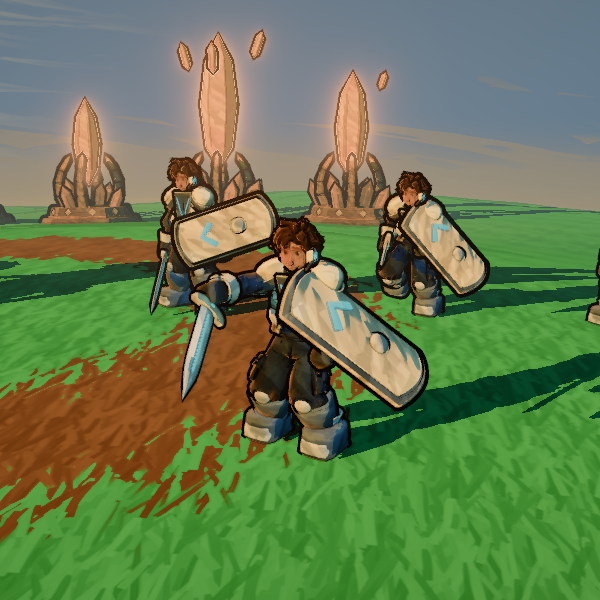
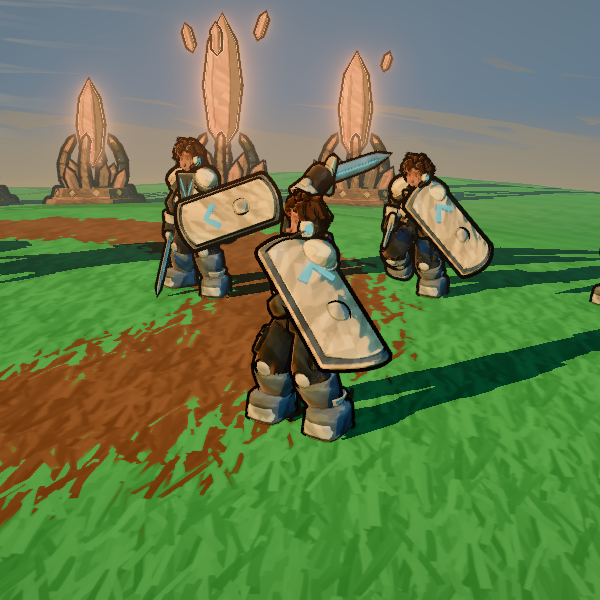
Recapture the finisher's evidence frame inside its coil, where it differs from attack_1
combat-combo-1.png and combat-combo-3.png showed the same cleave pose. The finisher's placeholder is
the source cleave from its coil, and attack_1's is the whole cleave, so the two strike in the same pose
until the real attack_3 ships; the finisher's frame was taken near its strike (0.33 s in), where they
match.

combat-combo-3.png is retaken on the RTX 4080 at the finisher's 0.216 s, frozen on the first frame at or
past 0.20 s of a chain pressed from inside the page, in the same 600 x 600 crop of the default play
camera: the sword is held in the coil over his right shoulder, with the labels and chips hidden as in
the other combo frames. The blueprint's placeholder row and the combat feel research's Decided row now
say that hits 1 and 3 share a source until the real attack_3 ships.

diff --git a/docs/blueprint.md b/docs/blueprint.md
@@ -1204,7 +1204,7 @@ world's centre on the pole.
 | `crossfade`, `fadeIn` and `fadeOut` (labs/world/combatFeel.ts; ownWeight and comboWeights, labs/world/combo.ts) | 0.10 s between hits; 0.07 s from the idle and run into a chain's first hit; 0.2 s from its last hit back to them, ending one frame (the frame's real interval) before the hit's end; a light hit at full weight until its cancel point; each hit's fades copied from the settings when it begins (`HitFades`) | The owner's 0.08 to 0.12 s crossfade: the outgoing hit falls from the weight it had as the next rises, so the two sum to 1 from a full-weight hit and no idle shows between hits (the browser test reads the upper body's hit weight at 1.000000 from attack_1's full weight to the finisher's fade out). The crossfade stops at 0.25 s in the panel, under the light hits' 0.30 s cancel point, so a hit has finished fading in before the next can begin and only two hits ever show. The first hit takes over in a third of attack_1's 0.20 s wind-up, so the wind-up reads from its first frames, and the last hands back over 0.2 s, inside the 0.25 s a light hit has past its cancel point, settling into the idle or the run without a pop. The fade out ends one frame early, the frame's step short of the hit's end, since the hit ends on the frame that reaches its end: ending there left the last frame up to a step's share of the fade, a quarter at SwiftShader's 0.05 s, which vanished in one frame. A light hit keeps full weight until its cancel point however long the fade out (the fade shortens to fit), so a kept hit always takes over from a full one. A frozen frame keeps the weights it had. The fade's frame is the frame's real interval, not the combo's step, so phase B's hit-stop, which holds the combo's step at 0 while frames draw, does not move the fade's end each time a stop begins and ends. A hit keeps the fades it began with, so a slider moved mid-hit applies from the next hit: read live, dragging the crossfade from 0.10 to 0.25 s halfway through a crossfade threw the incoming hit from 0.5 to 0.2 of its weight in one frame |
 | `moveScale`, `windupTurn` and the finisher's plant (labs/world/combatFeel.ts; swingMotion, labs/world/combo.ts; stepMotion's `cap`, labs/world/playMotion.ts) | light hits: 0.4 of the pace from the hit's start to its cancel point, eased down at the stop rate through the wind-up and held at or under 0.4 of the walk's or the sprint's pace through the active frames, easing down at the stop rate from there when the key is let go; 0.5 of the turn rate in the wind-up, the facing locked from the active frames to the cancel point and free after it. The finisher: no pace and no turn for its whole 0.85 s, from the frame it begins | Attacking while moving: the owner asked that he slow rather than stop. At 0.4 the walk's 3.2 m/s falls to 1.28 m/s and the sprint's 5.6 m/s to 2.24 m/s, both over the run's full weight at 1.2 m/s, so his legs keep the run cycle under the swing at 0.33 and 0.58 of its rate, the rate following his speed so his feet keep pace with the ground (`runTimeScale`). The ease down from a walk takes 0.07 s of attack_1's 0.15 s wind-up, so the active frames land at the reduced pace, and the cap holds them there (the browser test reads 1.280 m/s in each). The cap is the hit's ceiling, its share of the walk's or the sprint's pace, not the pace the key asks: capped to the key, letting go of W in the active frames, or asking for a way more than a quarter turn from the locked facing, dropped his drive from 1.28 m/s to 0 in one frame and the run's weight from 1 to 0 with it, so the legs and hips jumped from the run to the idle; under the ceiling the drive eases down at the stop rate, 1.28 m/s to 0 in 0.048 s (a unit test reads 1.28 less a frame of the stop rate on the frame after the key is let go). The pace stays reduced to the cancel point: freed at the end of the active frames, he surged from 1.28 m/s to 1.6 m/s in the 20 ms before it and slowed again in the next hit's wind-up, a bump in every chain. Half the turn rate, 270 degrees a second, lets him aim the wind-up; locking the facing through the active frames sends the cut where it was aimed (Pillar 4), and freeing it at the cancel point lets him line up the next hit. The finisher plants both boots (the clip holds them by IK on every frame), so any pace under it would slide them: the cap zeroes his drive on its first frame. Easing down at the stop rate instead took 0.12 s from a walk and 0.21 s from a sprint and slid him about 0.19 m and 0.59 m (2026-10-05, the single cleave's PLAY_ATTACK_MOVE_SCALE, which this replaces). The run keeps the weight it had while the finisher fades in over his stop (`holdsRunWeight`): following his zeroed speed there dropped it from 1 to 0 at once and showed 76 percent idle at 60 fps (29 percent at 20 fps) under its first frame |
 | `UPPER_BODY_ROOT` (labs/world/comboClips.ts) and the body's weights (bodyWeights, labs/world/combo.ts) | `Spine`: mixamorigSpine, Spine1, Spine2, both shoulders, arms, forearms and hands, the neck, the head, the jaw and HeadTop_End play the hits; the hips and both legs (UpLeg, Leg, Foot, ToeBase) keep the locomotion blend. On the lower body the run keeps its weight times what the planted hits leave, a light hit plays at its weight times the idle's share (1 less the run's weight), and the idle takes the rest of that share; the finisher plays on the whole body | three's AnimationMixer weighs a whole action, every bone its clip touches, so each clip is split at the mask into an upper and a lower clip whose weights sum to 1 on their own, where one action per clip would let the upper body fall back toward the bind pose under a partial weight. The sword and the shield have no bones of their own; they are skinned to the hands, which the mask holds. Running, the legs keep the run cycle under the swinging arms (the browser test reads the legs' run weight at 1.000 through a moving hit, and combat-moving-attack.png shows the stride under the cut); the hips' coil is lost there, and the frames still read the upper body as a swing. Standing, the whole body swings, the coil and the planted stance included (combat-combo-1.png). The light hit used to shrink the run's share on the legs as well, so at full hit weight the run kept the square of its weight: at half the run's weight (0.6 m/s) the legs took 0.25 run, 0.5 hit and 0.25 idle, an idle stance mixed into a jog; they now take 0.5 run and 0.5 hit, and a unit test holds the shares at that point, their sum at 1 and their continuity in the run's weight. A unit test loads the shipped GLB and holds the mask to these bones |
-| The placeholder hits (hitClips and warpClip, labs/world/comboClips.ts; placeholderAnchors, labs/world/combo.ts), `BACKHAND_FROM_AFTER_STRIKE`, `BACKHAND_STRIKE_BEFORE_STRIKE`, `BACKHAND_TO_BEFORE_STRIKE`, `FINISHER_FROM_BEFORE_STRIKE`, `PLACEHOLDER_SAMPLES_PER_SECOND` and `CLIP_LENGTH_TOLERANCE` | each warped at runtime from the attack clip, piecewise-linear through the hit's start, strike and end: attack_1 from 0, 0.34 and 0.833 s of the source; attack_2 backward from 0.60 s through 0.30 s to 0.12 s (0.26 s after the source's strike, 0.04 s and 0.22 s before it); attack_3 from 0.13 s (0.21 s before the strike), 0.34 s and 0.833 s; sampled 60 times a second and at each anchor, each warped track keeping its source's interpolation. A GLB clip named attack_1, attack_2 or attack_3 replaces its placeholder, and one more than 1/30 s off its contract's length is named in the console and its miss read (`clipLengthOff`) | The real clips are being made, and until they arrive the source cleave stands in, warped so its strike lands exactly at each hit's contract strike, where a uniform scale would put it at 0.22 s in 0.55 s and at 0.35 s in 0.85 s. The cleave snaps its sword hand up in one frame (0.067 to 0.1 s), holds the coil to 0.267 s, cuts down by 0.333 s at up to 27 m/s and holds the follow-through in front to 0.63 s. attack_2 runs that cut backward as a rising backhand, struck at the cut's fastest moment: struck at the source's own 0.34 s, the end of the cut, it struck before its blade moved. Its first pose stands within 7 cm of attack_1's sword hand at attack_1's cancel point, both in the follow-through, so the crossfade barely moves the sword, and the cut down and back up read as two blows (combat-combo-2.png); mirroring would swing the shield, which is in his left hand. The finisher starts in the coil where the backhand ends: started from the source's first frame, it dropped the sword to the guard over the crossfade only to snap it back up. 60 samples a second, twice the source's rate, keep every source key in the warp's faster stretches. The swap to the real clips is an asset change alone, and the reading names each hit's source (`sources`, `source`); a unit test holds the strike pose at each contract strike within 0.1 mm. The combo's clock runs each hit to its contract, so a real clip of another length would be cut short or held on its last pose; 1/30 s is assets:check's tolerance for every timed clip (`FRAME`), so a clip that passes there passes here, and a real attack_N used to replace its placeholder with no check at all. A warped track keeps its source's interpolation, so a stepped track still steps (every warped track was built linear); a glTF cubic spline track, three values per key, is read at its value's size, a third of getValueSize(), where the warp read two values past each sample into NaN, and it and a Bezier track play their dense samples linearly, their tangents belonging to keys the resample does not keep |
+| The placeholder hits (hitClips and warpClip, labs/world/comboClips.ts; placeholderAnchors, labs/world/combo.ts), `BACKHAND_FROM_AFTER_STRIKE`, `BACKHAND_STRIKE_BEFORE_STRIKE`, `BACKHAND_TO_BEFORE_STRIKE`, `FINISHER_FROM_BEFORE_STRIKE`, `PLACEHOLDER_SAMPLES_PER_SECOND` and `CLIP_LENGTH_TOLERANCE` | each warped at runtime from the attack clip, piecewise-linear through the hit's start, strike and end: attack_1 from 0, 0.34 and 0.833 s of the source; attack_2 backward from 0.60 s through 0.30 s to 0.12 s (0.26 s after the source's strike, 0.04 s and 0.22 s before it); attack_3 from 0.13 s (0.21 s before the strike), 0.34 s and 0.833 s; sampled 60 times a second and at each anchor, each warped track keeping its source's interpolation. A GLB clip named attack_1, attack_2 or attack_3 replaces its placeholder, and one more than 1/30 s off its contract's length is named in the console and its miss read (`clipLengthOff`) | The real clips are being made, and until they arrive the source cleave stands in, warped so its strike lands exactly at each hit's contract strike, where a uniform scale would put it at 0.22 s in 0.55 s and at 0.35 s in 0.85 s. The cleave snaps its sword hand up in one frame (0.067 to 0.1 s), holds the coil to 0.267 s, cuts down by 0.333 s at up to 27 m/s and holds the follow-through in front to 0.63 s. attack_2 runs that cut backward as a rising backhand, struck at the cut's fastest moment: struck at the source's own 0.34 s, the end of the cut, it struck before its blade moved. Its first pose stands within 7 cm of attack_1's sword hand at attack_1's cancel point, both in the follow-through, so the crossfade barely moves the sword, and the cut down and back up read as two blows (combat-combo-2.png); mirroring would swing the shield, which is in his left hand. The finisher starts in the coil where the backhand ends: started from the source's first frame, it dropped the sword to the guard over the crossfade only to snap it back up. attack_1 and the finisher share the source cleave until the real attack_3 ships, so the two strike in the same pose: their frames near the strike (combat-combo-1.png, and combat-combo-3.png as first taken at 0.33 s) showed the same cleave, and combat-combo-3.png now shows the finisher 0.22 s in, held in the coil with the sword over his right shoulder, where the two differ. 60 samples a second, twice the source's rate, keep every source key in the warp's faster stretches. The swap to the real clips is an asset change alone, and the reading names each hit's source (`sources`, `source`); a unit test holds the strike pose at each contract strike within 0.1 mm. The combo's clock runs each hit to its contract, so a real clip of another length would be cut short or held on its last pose; 1/30 s is assets:check's tolerance for every timed clip (`FRAME`), so a clip that passes there passes here, and a real attack_N used to replace its placeholder with no check at all. A warped track keeps its source's interpolation, so a stepped track still steps (every warped track was built linear); a glTF cubic spline track, three values per key, is read at its value's size, a third of getValueSize(), where the warp read two values past each sample into NaN, and it and a Bezier track play their dense samples linearly, their tangents belonging to keys the resample does not keep |
 | The combat feel folder (labs/world/panel.ts; `COMBAT_FEEL_RANGES`, labs/world/combatFeel.ts) and `COPIED_SHOWN_MS` | a slider per setting: crossfade 0.02 to 0.25 s, first hit fade in 0.02 to 0.15 s, last hit fade out 0.05 to 0.4 s, buffer 0 to 0.3 s, reset 0 to 1 s, pace kept and turn kept 0 to 1; a read-only readout of the settings as compact JSON; "Copy combat feel settings", whose name says it copied for 1.5 s; "Reset combat feel to the defaults"; `?feel=` applies that JSON over the defaults, each value put on its slider's step, and the page rewrites it as the settings move (removed at the defaults); the folder closed at first on a phone; a pointer's work on any of the panel's checkboxes, dropdowns or buttons hands the focus back to the page | The owner tunes the feel live and pastes the JSON back to us. One settings object (CombatFeel), with its defaults and ranges in one file, feeds the sliders, the readout, the copy, the address and the play code, so phase B's hit-stop, lunge, shake and trail arrive by adding keys there. The ranges bound `?feel=` too: a key that is not a setting, or a value out of range, is named in the console and the banner and skipped. A clipboard that refuses (an insecure address, a page without focus) puts the JSON in the banner instead. 1.5 s is long enough to read the button's new name and short enough to copy again. Every checkbox, dropdown and button in the panel hands the focus back to the page once a pointer has worked it (handFocusBack, labs/world/panel.ts, through lil-gui's onChange): lil-gui stops every key event that starts inside a controller, and a clicked button, checkbox or dropdown keeps the focus, so after ticking Play Pip or copying the settings WASD and F did nothing until a click elsewhere (S held for 0.7 s after the copy button moved him 0.00 m; 1.37 m with the focus handed back). The first fix covered three controls, so the labels and pause checkboxes and the quality tier still swallowed the keys, the arrow keys changing the tier while it held the focus, and it blurred a keyboard's activation too, throwing a keyboard user's place away; a keyboard's activation now keeps its focus. A key released while the focus is in the panel still reaches Play Pip (its keyup is read on the way down to the target), where it used to leave him running on. The folder's order and the copied JSON's both come from `COMBAT_FEEL_RANGES` (they came from the defaults, whose order only happened to match). A pasted value between two steps used to be taken as it was, so the slider drew one value while the play code read another; it is put on the step now. `?feel=` was read once and kept its opening value after the sliders moved, so a reload or a copied address brought back the old feel; the page now writes the settings there whenever one moves, and none at the defaults, so the address names only a changed feel |
 | `PLAY_CAMERA_DISTANCE`, `PLAY_CAMERA_PITCH_DEG`, `PLAY_CAMERA_MIN_DISTANCE`, `PLAY_CAMERA_MAX_DISTANCE`, `PLAY_CAMERA_MAX_POLAR_DEG`, `PLAY_TARGET_HEIGHT` and `PLAY_FOLLOW_RATE` (labs/world/play.ts) | 5.5 m at 16 degrees; 2.5 to 16 m; no lower than 84 degrees from straight down; his chest 1.1 m up; 10 a second | The follow camera opens on the world cameras' bearing from him, near enough that his 1.78 m fills about a third of the frame's height with the world behind him. The orbit's centre closes on his chest at 10 a second (63 percent of the gap in 0.1 s) and the camera moves with it, so a drag orbits and the wheel zooms about him between 2.5 and 16 m, never below his chest's level; panning is off, since the follow would carry a pan's offset for good. The view glides, the turntable and the view and member choices wait while he plays |
 | The play browser test (tests/e2e/asset-world.spec.ts) | out clear of every reach; 0.5 m moved; within 1 mm of the ground; the camera's centre followed 0.1 m; one hit for one F with S and D held from the spawn (play off and on first), attack_1 from its placeholder, 0.55 s with its strike at 0.20 s at full weight, his speed above 0 and at most 0.4 of the walk through its active frames, unturned there, the legs' run weight above 0 and his clearance above 0 on every frame, then running on; in a test of its own, hits 1, 2, 3 and then 1 again for presses fired in the page, attack_2 and attack_3 starting at or after the cancel point from a kept press, one strike per hit, the finisher without a cancel or pace and played to its last frame, the upper body's hit weight 1 within 1e-9 from attack_1's full weight to the finisher's fade out, attack_1 afresh for a press after the finisher and the reset, and attack_1 again, not attack_2, for a press once a light hit has ended and the reset has run (attack_2 named next on the frame after the light hit ends); one swing for a click at the canvas centre held 50 ms (`CLICK_HOLD_MS`), read back within 1 ms and seen within five frames (`SWING_SHOWS_WITHIN_FRAMES`); none for a 40 px drag, which moves the camera more than 5 cm; on a touch phone the Attack button shown and one swing for one tap | `?play=pip` puts him out outside every member's reach (his clearance above 0, so a re-laid world cannot spawn him inside a member), and W held until he has covered half a metre (SwiftShader's frames each move him at most 1/20 s) leaves him on surfaceAt at his tangent point and the camera's centre moved with him. Then he goes back to the spawn, play off and on, so the moving attack crosses the same ground on every run, and F with S and D held heads him down and to the right, away from his row and between it and the nest with more than 2.5 m to spare: S alone heads him at the nest, 5.5 m ahead of the spawn on the tower row (`NEST_SPOT`), and once the hit kept him moving, one run reached its reach by the hit's end (clearance 0.00 m, his speed down to 0.893 m/s), where the old cleave had stopped him short of it; the hit's speed checks need open ground, so his clearance is held above 0 through it (it reads 1.467 to 2.076 m). A recorder in the page reads every frame, since reads from the test once let a whole 0.83 s swing pass between two of them, and F is dispatched in the call that starts it, so the hit starts from the state recorded rather than a round trip later with him running on toward what stands ahead (the line logs his clearance before and after). attack_1 reaches its 0.20 s strike at weight 1, his speed in its active frames is above 0 and at most 1.28 m/s (it reads 1.280 in each), his yaw unchanged there, and the legs' run weight above 0 on every frame (it reads 1.000), after which he runs on under the key; the placeholder is the contract's length exactly. The chain test fires its presses from the same kind of recorder, one as soon as each light hit's buffer opens and one once the finisher has ended and the reset has run, since a round trip from the test can outlast a 0.2 s buffer at SwiftShader's frame rate; it reads attack_2 and attack_3 chained at 0.300 s there, as on the GPU. A fifth press, once the attack_1 after the finisher has ended and the reset has run, tests the reset after a light hit, which the press after the finisher could not: the finisher's next hit is attack_1 at once, so that press began attack_1 whatever the reset did. He stands through the chain, so the finisher's hold on the run's weight is the unit test's (tests/unit/labs/combo.test.ts), as are the press rules at irregular frame steps. The same recorder holds a click at the canvas centre to one swing and one strike. Its press and release go through the DevTools protocol with timestamps 50 ms apart, a fifth of the 0.25 s a click may take, which the page's event times carry (it reads the hold back within 1 ms, and a release sent 402 ms late still read 50.000 ms): `page.mouse.click` sends the release only once the press is acknowledged, which SwiftShader's busy main thread can hold past 0.25 s, so the click read as a held press and the wait for a swing ran out its minute. A click that starts no swing within five frames of the release fails at once with the hold the page read; the page's next frame takes the attack, so five leave room and cost a quarter second at 20 frames a second. A press, a 40 px move and a release start no swing over the same five frames and move the camera more than 5 cm: the drag asks for a 53 degree orbit on the 270 px tall canvas, metres of travel, while he stands and gives the follow nothing to carry. On the 375 x 667 touch phone, one `tap()` of the visible Attack button gives one swing |
@@ -1544,7 +1544,7 @@ The order of construction:
 | Pip is the default commander; Bulwark is an alternate | partial | owner, 2026-10-04: "yes make Pip the default, keep Bulwark as alternate"; in both labs: the Style Lab opens on Pip (commander) (`commander_pip`), `?commander=bulwark` opens Bulwark, and the Asset World's commanders' zone leads with Pip, Bulwark after him; frames in docs/evidence/m0/style-*-high.png and style-*-low.png (Pip) and style-*-bulwark.png (Bulwark); no game yet |
 | Generated sources, such as CharForge shapes, allowed only as inputs that a Blender 5.2.1 recipe re-proportions, decimates, repaints, animates and exports | partial | owner choice, 2026-09-27; no Mac is available to run CharForge, so its published GLBs are the sources; since 2026-10-04 `blender/recipes/commander_pip.py` reworks the owner's published Pip (`blender/sources/charforge/pip.glb`, the 2026-10-03 publication, 10,016,740 bytes) through `blender/lib/charforge.py` into the shipped `commander_pip`, which `npm run assets` rebuilds (identical to the study's reference build apart from bake texels); in the labs, no game yet |
 | Pip (commander) is built by a Blender recipe from the owner's CharForge source, so every shipped file of his comes from committed files | partial | the generated-sources row above allows it (owner choice, 2026-09-27); the source is an input to the recipe only, and what ships is the recipe's export through the build's optimize, inspect and manifest steps: `npm run assets -- --only commander_pip` in 197.7 s, 23,999 triangles, 24 bones, three 1,024 px textures, the five face morphs and idle, run and attack clips (Performance budgets); frames in docs/evidence/m1/ and docs/evidence/m0/style-*-high.png and style-*-low.png; no game yet |
-| Play Pip combat feel research: 3-hit combo chain, impact feel and attacking while moving, as a lab prototype with placeholder clips until the real attack_1-3 arrive | partial | owner, 2026-10-05; phase A is in the Asset World: the combo chain with its buffer, crossfades and reset, attacking on the move on the upper body, and the combat feel folder (docs/evidence/m1/combat-combo-1.png to combat-combo-3.png, combat-moving-attack.png); phase B, the impact feel, is next |
+| Play Pip combat feel research: 3-hit combo chain, impact feel and attacking while moving, as a lab prototype with placeholder clips until the real attack_1-3 arrive | partial | owner, 2026-10-05; phase A is in the Asset World: the combo chain with its buffer, crossfades and reset, attacking on the move on the upper body, and the combat feel folder (docs/evidence/m1/combat-combo-1.png to combat-combo-3.png, combat-moving-attack.png; combat-combo-3.png shows the finisher in its coil, since hits 1 and 3 share the source cleave until the real attack_3 ships); phase B, the impact feel, is next |
 | The game stays free and non-commercial | partial | owner, 2026-09-27; the public Pages site is free to open, and no license records the non-commercial terms yet (Task list) |
 | Every v3 system returns, staged by milestone for quality | not yet | owner choice, 2026-09-23 |
 | A planet takes 25 to 35 minutes | not yet | owner choice, 2026-09-23 |
